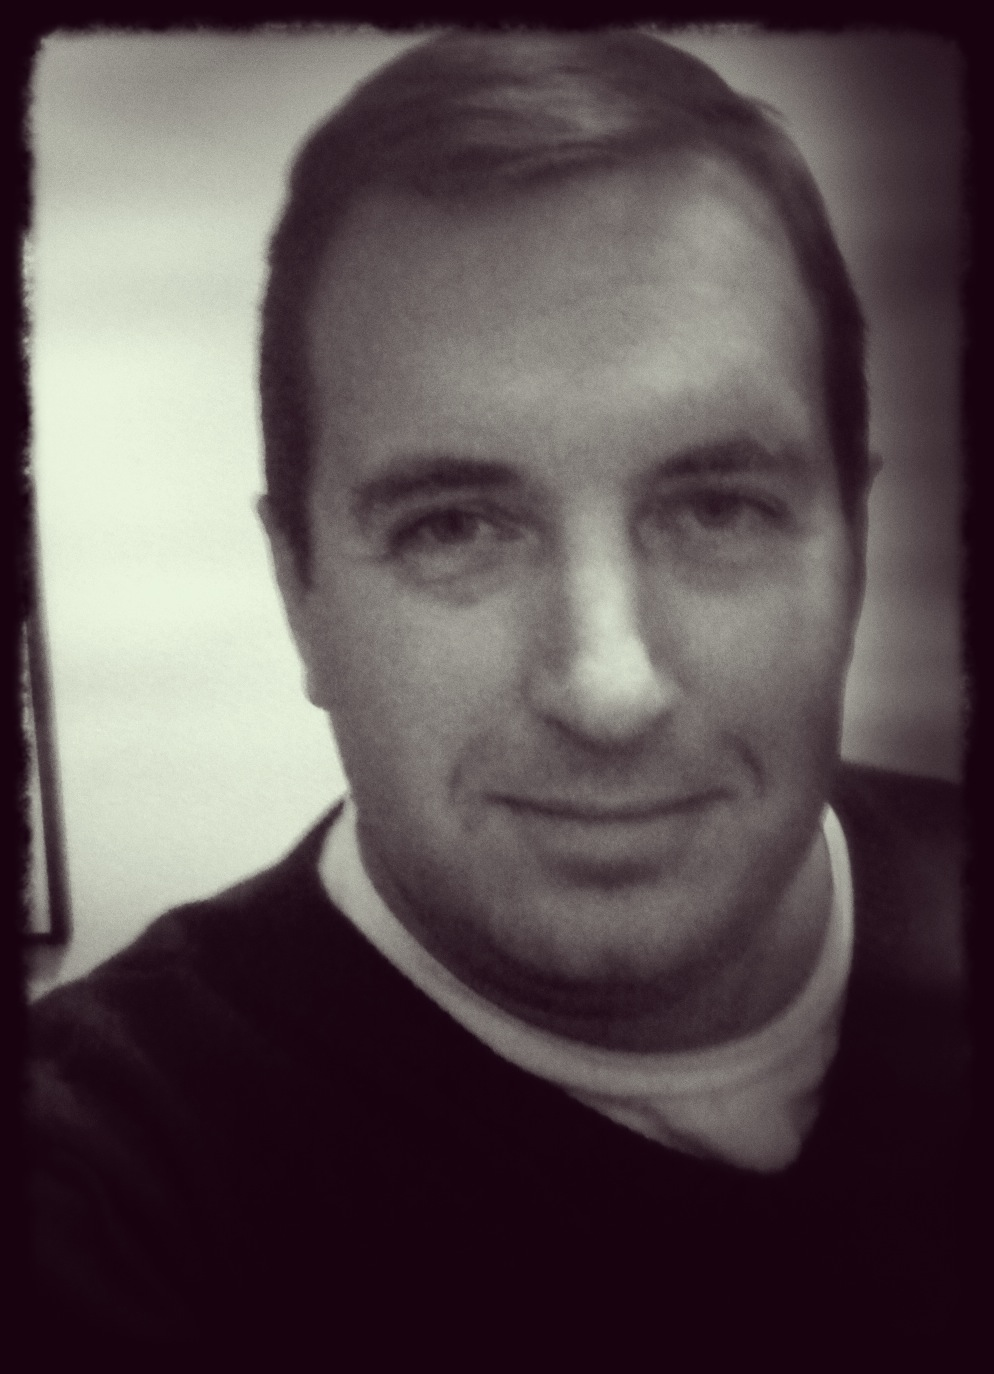
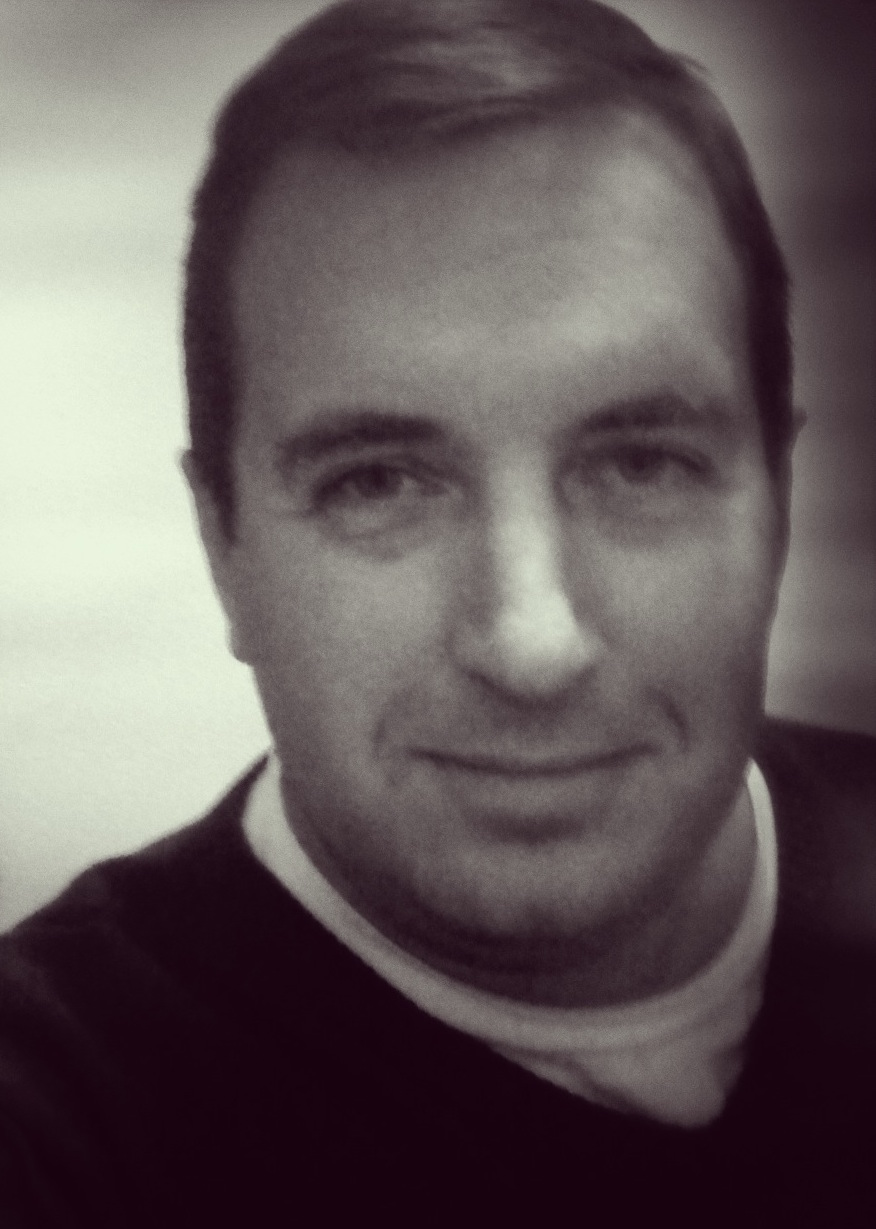
changes

diff --git a/index.html b/index.html
@@ -74,7 +74,7 @@
           <h1>JOHN KEISKER</h1>
           <hr>
           <p>FRONT END DEVELOPER</p>
-          <a href="#about" class="btn btn-primary btn-xl page-scroll">More about Me!</a>
+          <a href="#about" class="btn btn-primary btn-xl page-scroll">More about Me !!!</a>
         </div>
       </div>
     </header>
@@ -85,10 +85,12 @@
           <div class="col-lg-8 col-lg-offset-2 text-center">
             <h2 class="section-heading">I'm your guy!</h2>
             <hr class="light">
-            <p class="text-faded">Still growing and eager to learn as a developer, I'm passionate about design. My strengths are css/sass, html and AngularJs. Arkansas born and raised, I'm outgoing and love to laugh. I enjoy spending quality time grilling out with
-              friends, listening to live music, playing golf and watching Razorback football.</p>
+            <img id="profilepic" src="./img/profilepic.jpg">
+            <p class="text-faded">Creative by nature, I happily embrace all growth and development opportunities that arise. I'm very passionate about design.
+              My strengths are CSS/SASS, HTML and AngularJs. Arkansas born and raised, I'm outgoing and love to laugh. I enjoy spending quality time with friends
+              and family grilling out, listening to live music, playing golf and watching Razorback football.</p>
 
-            <img id="profilepic" src="./img/biggie.jpg">
+
             <!-- <br>
             <a href="#" class="btn btn-default btn-xl">Skills</a> -->
 
@@ -153,7 +155,7 @@
                     Local MicroBrews
                   </div>
                   <div class="project-category text-faded">
-                    Final Project
+                    Final capstone project for The Iron Yard 12 week intensive coding school.
                   </div>
 
                 </div>
@@ -169,7 +171,7 @@
                     Comic Storyboard
                   </div>
                   <div class="project-category text-faded">
-                    Group Project
+                    72 hour 4 person team "Hackathon" app building project with a focus on group collaboration.
                   </div>
 
                 </div>

diff --git a/css/creative.css b/css/creative.css
@@ -52,6 +52,8 @@ p {
     margin-bottom: 20px;
     font-size: 20px;
     line-height: 1.5;
+    padding-top: 20px;
+    text-align:  justify;
 }
 
 .bg-primary {
@@ -70,7 +72,7 @@ p {
 }
 
 section {
-    padding: 60px 0;
+    padding: 30px 0;
     background-color: lightgray;
     border-bottom: 2px solid gray;
 }
@@ -491,8 +493,8 @@ body {
 }
 #profilepic {
   width: 250px;
-  height: 300px;
-  border-radius: 50px;
+  height: 325px;
+  border-radius: 20px;
   border: 3px solid #006600;
   /*box-shadow: 3px 3px 3px rgba(255,255,255,.7);*/
 }
